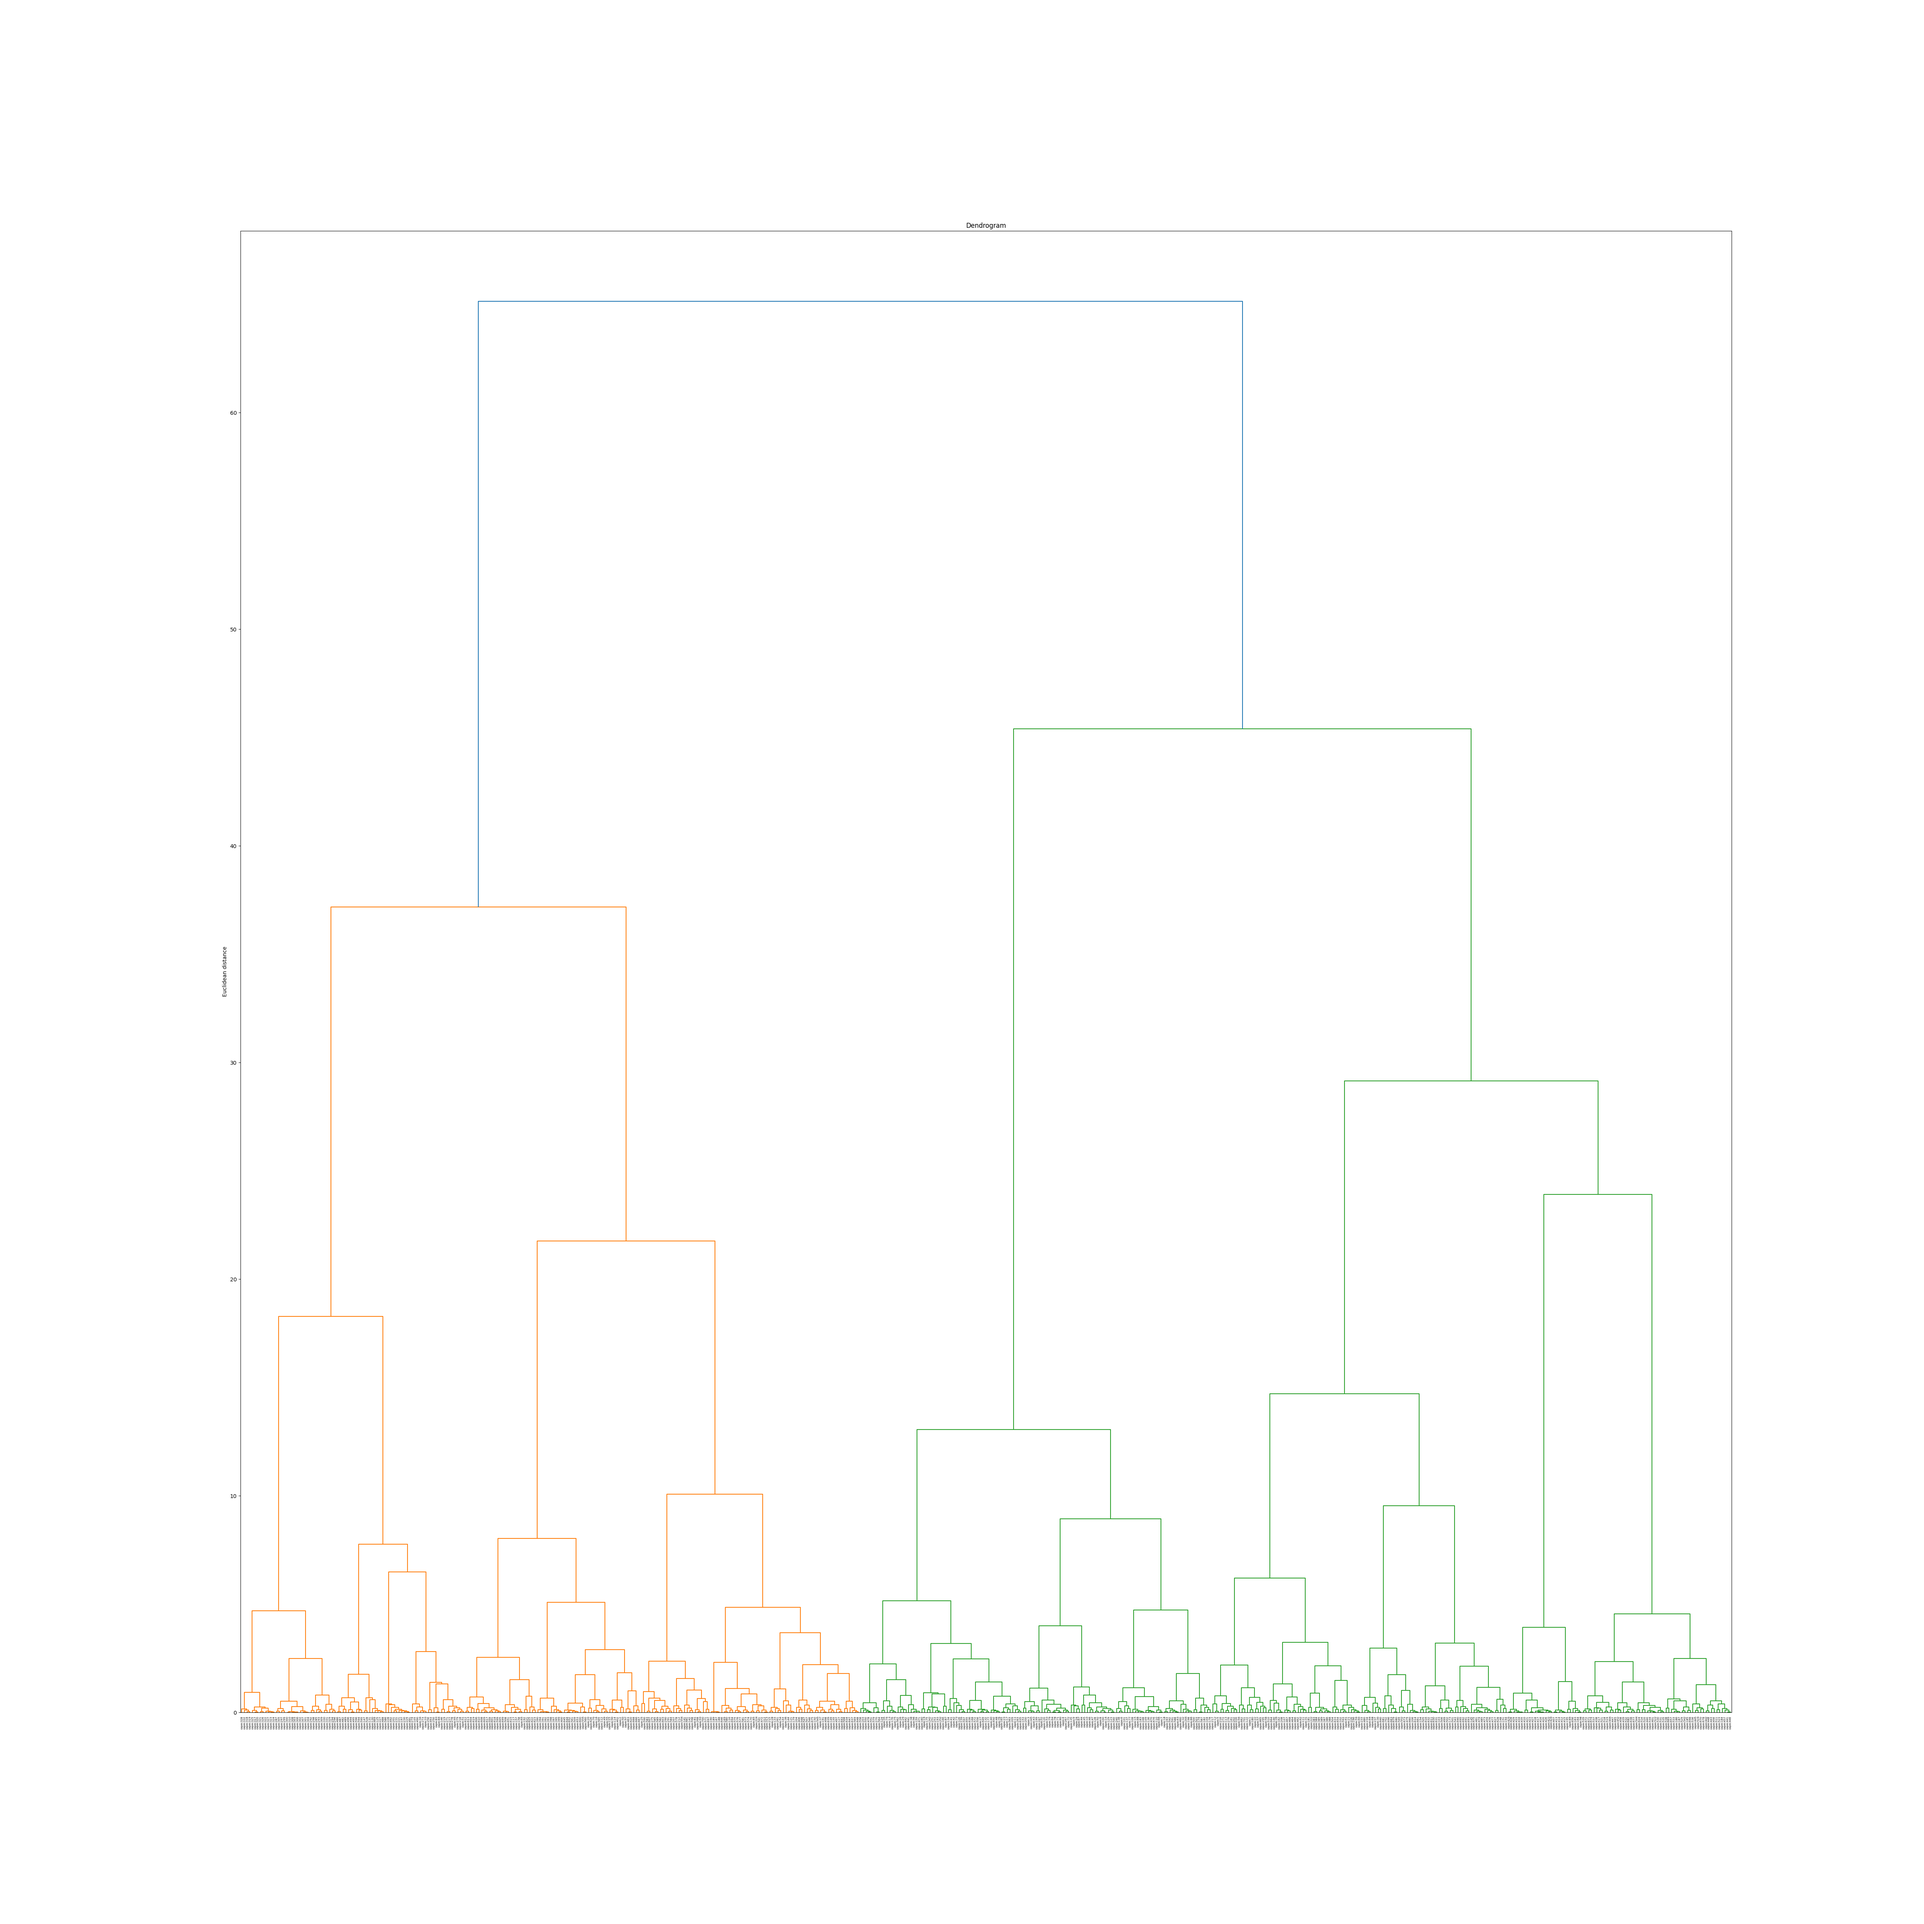
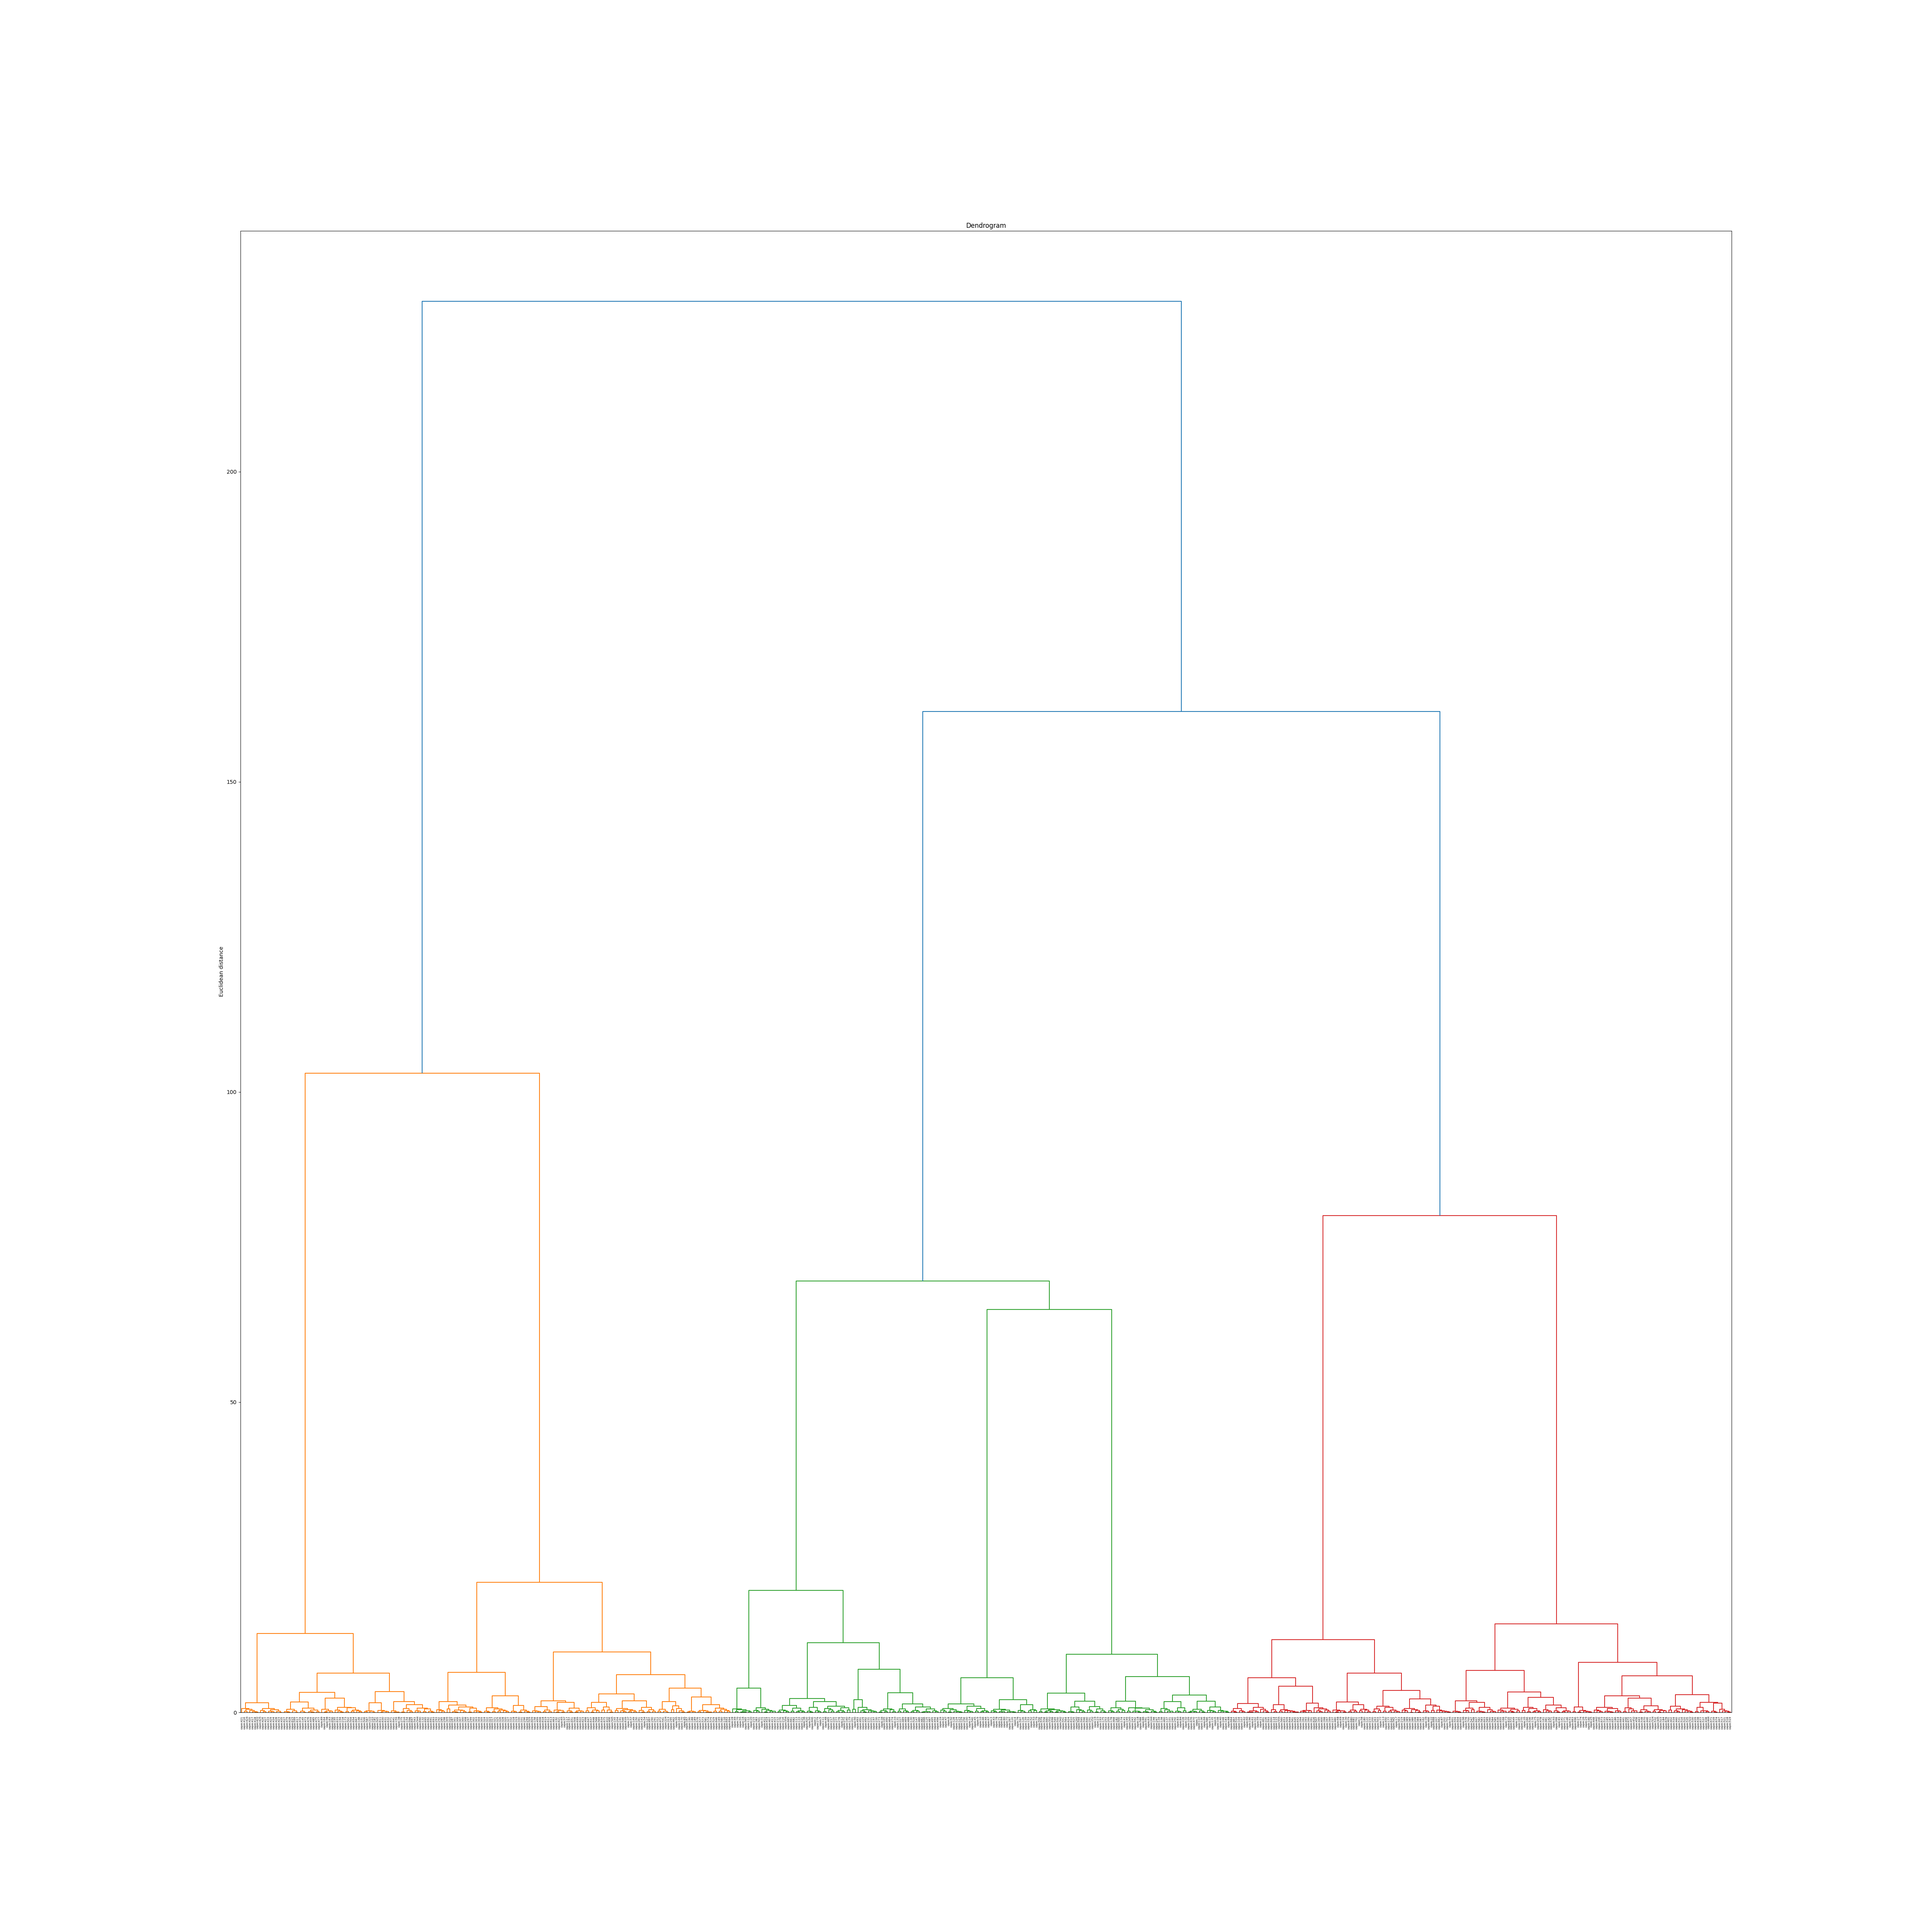
edit clustering for graph analysis

Changed region(s): [[0.1248, 0.8736, 0.9048, 0.9048]]

diff --git a/src/clustering/graph.py b/src/clustering/graph.py
@@ -1,0 +1,108 @@
+import os
+import pandas as pd
+import networkx as nx
+from kmeans import Clustering
+import matplotlib.pyplot as plt
+
+root_path = os.path.join(os.path.dirname(__file__), "../../")
+data = pd.read_csv(f"{root_path}/data/processed/dataset_voyage.csv")[:559]
+triplet = pd.read_csv(f"{root_path}/data/processed/triplet.csv")[:722]
+capec_category = pd.read_csv(f"{root_path}/data/processed/capec_category_voyage.csv")
+capec_domain_mechanism = pd.read_csv(f"{root_path}/data/raw/capec_domain_mechanism.csv")
+
+cluster = Clustering(
+            data=data,
+            categoty=capec_category,
+            domain_mechanism=capec_domain_mechanism
+        )
+
+colors = [
+    '#FF0000',  # Red
+    '#00FF00',  # Lime
+    '#0000FF',  # Blue
+    '#FFFF00',  # Yellow
+    '#FF00FF',  # Magenta
+    '#00FFFF',  # Cyan
+    '#800000',  # Maroon
+    '#008000',  # Green
+    '#000080',  # Navy
+    '#808000',  # Olive
+    '#800080',  # Purple
+    '#008080',  # Teal
+    '#FFA500',  # Orange
+    '#A52A2A',  # Brown
+    '#FFC0CB',  # Pink
+    '#E6E6FA',  # Lavender
+    '#FFD700',  # Gold
+    '#C0C0C0',  # Silver
+    '#228B22',  # Forest Green
+    '#4B0082',  # Indigo
+    '#FF4500',  # Orange Red
+    '#2E8B57',  # Sea Green
+    '#8A2BE2',  # Blue Violet
+    '#20B2AA',  # Light Sea Green
+    '#FF69B4',  # Hot Pink
+    '#00CED1',  # Dark Turquoise
+    '#FF1493',  # Deep Pink
+    '#00FA9A',  # Medium Spring Green
+    '#1E90FF',  # Dodger Blue
+    '#B22222',  # Fire Brick
+]
+
+class Network:
+    def __init__(self) -> None:
+        self.x, self.cluster_index = cluster.run()
+        self.G = nx.Graph()
+        
+        # self.cluster_index = {1: [1, 2, 21, 24, 25, 27, 29, 30, 41, 42, 56, 137, 150, 154, 181, 237, 253, 264, 270, 280, 286, 297, 347, 355, 367, 423, 469, 500, 531, 532, 536, 538, 539, 540, 541, 550, 552], 2: [3, 9, 10, 12, 36, 37, 38, 39, 40, 53, 76, 77, 80, 82, 85, 86, 93, 97, 102, 103, 114, 129, 131, 138, 139, 140, 141, 142, 143, 144, 146, 147, 148, 149, 200, 238, 244, 287, 295, 298, 330, 369, 376, 378, 379, 380, 383, 384, 390, 403, 411, 413, 417, 418, 420, 421, 422, 426, 438, 453, 454, 458, 470, 489, 490, 507, 524, 526, 543, 544, 546, 548], 3: [11, 43, 44, 45, 49, 64, 68, 69, 71, 78, 87, 88, 89, 90, 109, 111, 145, 151, 155, 156, 157, 158, 170, 216, 240, 241, 268, 269, 271, 272, 273, 274, 275, 276, 277, 278, 279, 281, 282, 283, 284, 306, 310, 340, 342, 343, 344, 345, 346, 348, 349, 350, 351, 352, 356, 357, 358, 359, 360, 361, 362, 363, 364, 365, 374, 375, 385, 395, 396, 402, 407, 408, 409, 410, 414, 416, 429, 430, 431, 432, 434, 442, 464, 465, 467, 479, 486, 488, 493, 499, 501, 502, 503, 504, 505, 508, 509, 522, 528, 533, 534, 535, 542, 553, 556], 4: [7, 13, 15, 20, 22, 26, 32, 33, 35, 50, 63, 81, 101, 104, 116, 118, 119, 123, 124, 128, 130, 132, 133, 159, 160, 161, 163, 164, 165, 166, 211, 215, 217, 291, 292, 296, 308, 311, 313, 314, 315, 316, 318, 319, 320, 321, 322, 323, 324, 328, 329, 353, 381, 433, 449, 491, 495, 496, 514], 5: [14, 62, 105, 107, 117, 167, 193, 220, 243, 246, 247, 248, 249, 317, 331, 377, 391, 527, 551], 6: [0, 4, 6, 8, 16, 17, 23, 31, 65, 73, 79, 83, 100, 106, 108, 112, 113, 115, 121, 122, 127, 134, 135, 136, 153, 182, 221, 222, 223, 224, 225, 226, 227, 228, 229, 230, 231, 232, 233, 234, 235, 236, 239, 288, 293, 294, 309, 333, 337, 339, 341, 382, 386, 387, 388, 389, 404, 415, 419, 427, 428, 437, 448, 455, 472, 474, 475, 481, 483, 484, 492, 494, 498, 510, 511, 512, 513, 515, 529, 530, 537, 547, 554], 7: [5, 34, 48, 51, 55, 57, 61, 66, 67, 75, 84, 98, 99, 120, 125, 162, 219, 250, 251, 252, 254, 255, 256, 257, 258, 259, 260, 261, 262, 263, 265, 266, 267, 285, 299, 301, 302, 303, 304, 305, 307, 312, 332, 334, 335, 336, 370, 371, 412, 424, 425, 439, 443, 444, 445, 456, 457, 459, 460, 461, 462, 471, 485, 487, 497, 516, 517, 518, 519, 521, 523, 549, 558], 8: [18, 19, 28, 46, 47, 52, 54, 58, 59, 60, 70, 72, 74, 91, 92, 94, 95, 96, 110, 126, 152, 168, 169, 171, 172, 173, 174, 175, 176, 177, 178, 179, 180, 183, 184, 185, 186, 187, 188, 189, 190, 191, 192, 194, 195, 196, 197, 198, 199, 201, 202, 203, 204, 205, 206, 207, 208, 209, 210, 212, 213, 214, 218, 242, 245, 289, 290, 300, 325, 326, 327, 338, 354, 366, 368, 372, 373, 392, 393, 394, 397, 398, 399, 400, 401, 405, 406, 435, 436, 440, 441, 446, 447, 450, 451, 452, 463, 466, 468, 473, 476, 477, 478, 480, 482, 506, 520, 525, 545, 555, 557]}
+        
+        self.dic = {}
+        
+        for key, nodes in self.cluster_index.items():
+            for node in nodes:
+                self.dic[node] = key
+        
+        self.make_graph()
+        
+    def make_graph(self):
+        edges = []
+        edges_type = []
+        nodes = []
+        
+        self.node_colors = []
+        
+        for index, node in enumerate(data["ID"].tolist()):
+            nodes.append(node[5:])
+            cluster_num = self.dic[index]
+            self.node_colors.append(colors[cluster_num-1])
+        
+        self.G.add_nodes_from(nodes)
+        
+        data["ID"].tolist()
+        
+        for series in triplet.to_records():
+            if series["Relation"] == "ParentOf":
+                edges.append((series["ID1"][5:], series["ID2"][5:]))
+        self.G.add_edges_from(edges)
+        
+        self.pos = {}
+        for index, series in enumerate(data.to_records()):
+            self.pos[series["ID"][5:]] = self.x[index]
+        
+        
+    def draw(self):
+        plt.figure(figsize=(70, 70))
+        nx.draw_networkx(self.G, pos=self.pos, node_color=self.node_colors, node_size=1200)
+        plt.savefig("./graph.png")
+        
+    def analysis(self):
+        deg_center = nx.betweenness_centrality(self.G)
+        deg_center_sorted = sorted(deg_center.items(), key=lambda x:x[1], reverse=True)
+        print(deg_center_sorted[:20])
+
+        deg_center = nx.degree_centrality(self.G)
+        deg_center_sorted = sorted(deg_center.items(), key=lambda x:x[1], reverse=True)
+        print(deg_center_sorted[:20])
+
+
+Network().draw()

diff --git a/src/clustering/kmeans.py b/src/clustering/kmeans.py
@@ -72,16 +72,10 @@ class Clustering:
         # x = self.pca.fit_transform(x)
 
         mapper = umap.UMAP(random_state=42,  metric="cosine",
-                           n_neighbors=10, n_components=2, min_dist=0.1)
+                           n_neighbors=9, n_components=2, min_dist=0.4)
         x = mapper.fit_transform(x)
         
         self.x = x
-        
-        # self.kmeans(8)
-        
-        self.hierarchy()
-        
-        # self.hdbscan()
     
     def get_embedding(self) -> torch.tensor:
         client = VoyageAI()
@@ -90,16 +84,17 @@ class Clustering:
             id = series["ID"]
             emb = client.read_embedding(id=id)
             
-            # id = int(id[5:])
-            # names = []
-            # # names = self.domain_mechanism[self.domain_mechanism["ID"] == id]["Mechanism"].item().split(",")
-            # names.extend(self.domain_mechanism[self.domain_mechanism["ID"] == id]["Mechanism"].item().split(","))
+            id = int(id[5:])
+            names = []
+            # names = self.domain_mechanism[self.domain_mechanism["ID"] == id]["Mechanism"].item().split(",")
+            names.extend(self.domain_mechanism[self.domain_mechanism["ID"] == id]["Mechanism"].item().split(","))
             
-            # category_emb = 0
-            # for name in names:
-            #     category_emb += client.read_category_embedding(category=name.strip())
+            category_emb = 0
+            for name in names:
+                category=name.strip()
+                category_emb += client.read_category_embedding(category)
             
-            # emb = torch.cat([emb, category_emb])
+            emb = torch.cat([emb, category_emb])
             
             embs.append(emb)
         
@@ -156,7 +151,7 @@ class Clustering:
         plt.ylabel('Euclidean distance')
         plt.savefig("./a.png")
 
-        num_clusters = 15
+        num_clusters = 7
         clusters = fcluster(Z, num_clusters, criterion='maxclust')
 
         # クラスタリング結果のプロット
@@ -177,10 +172,12 @@ class Clustering:
         plt.savefig("./b.png")
         
         print(dic)
+        
+        return self.x, dic
     
     def hdbscan(self):
         # HDBSCANモデルを作成し、フィッティング
-        clusterer = hdbscan.HDBSCAN(min_cluster_size=20, min_samples=1)
+        clusterer = hdbscan.HDBSCAN(min_cluster_size=10, min_samples=1)
         cluster_labels = clusterer.fit_predict(self.x)
         
         # clusterer.single_linkage_tree_.plot(cmap='viridis', colorbar=True)
@@ -212,7 +209,16 @@ class Clustering:
         print(f'ノイズとして分類されたポイント数: {n_noise}')
         
         return self.x, dic
+    
+    
+    def run(self):
+        # self.kmeans(8)
         
+        x, dic = self.hierarchy()
+        
+        # x, dic = self.hdbscan()
+        
+        return x, dic
         
         
     
@@ -224,4 +230,4 @@ if __name__ == "__main__":
         data=data,
         categoty=capec_category,
         domain_mechanism=capec_domain_mechanism
-    )
+    ).run()
